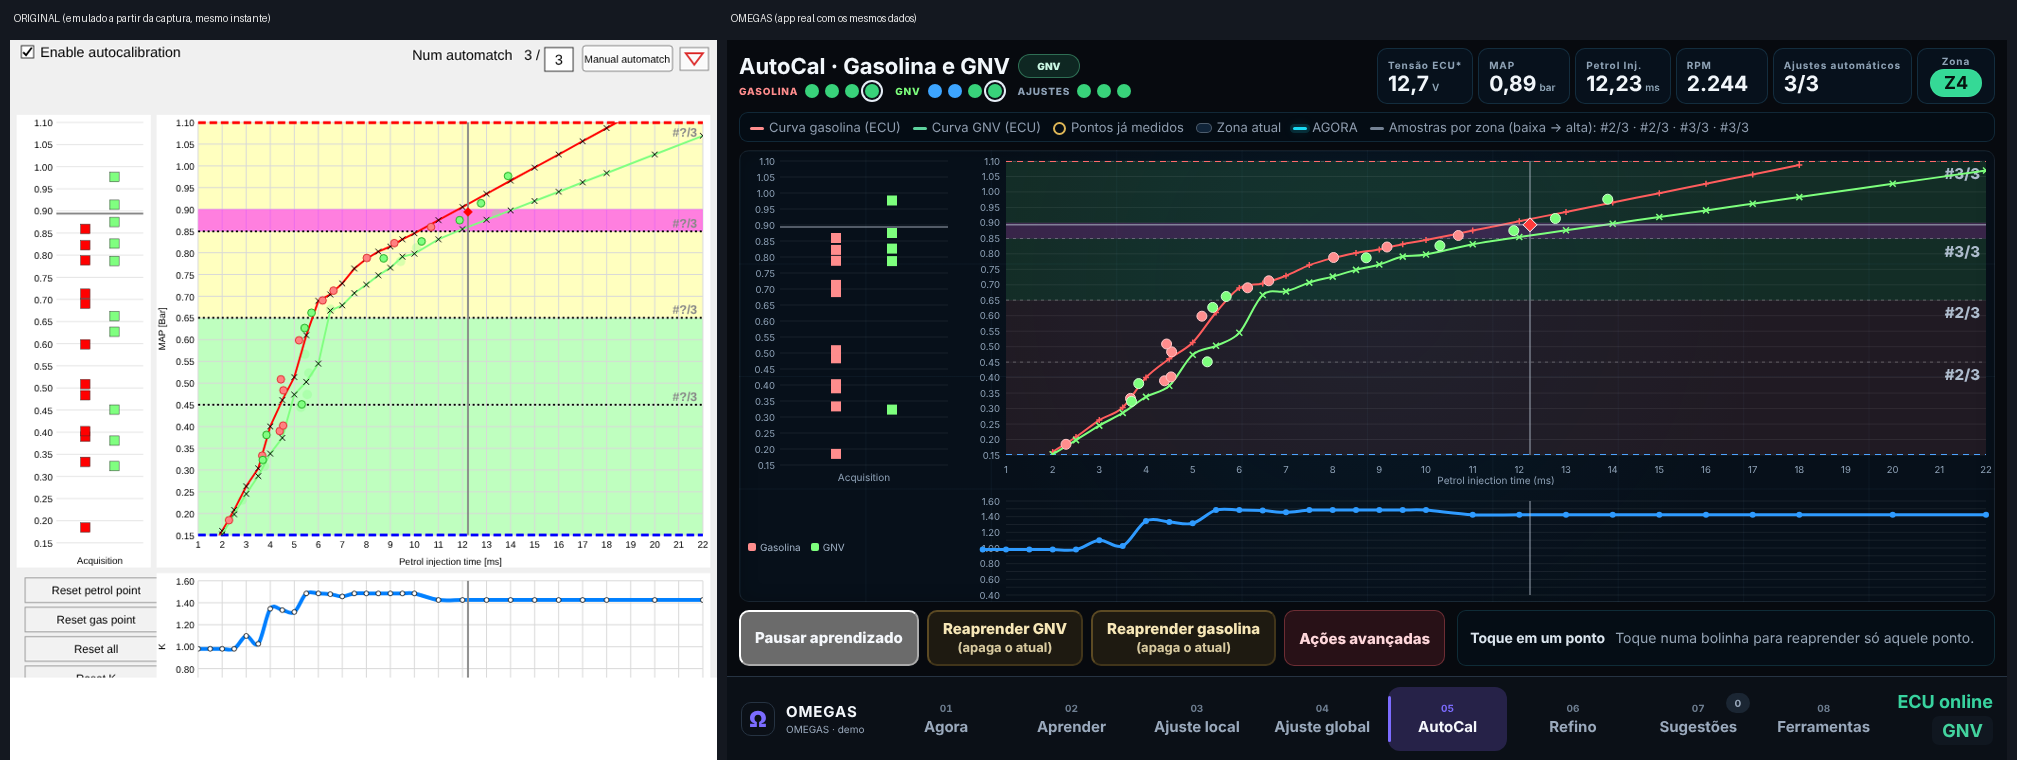
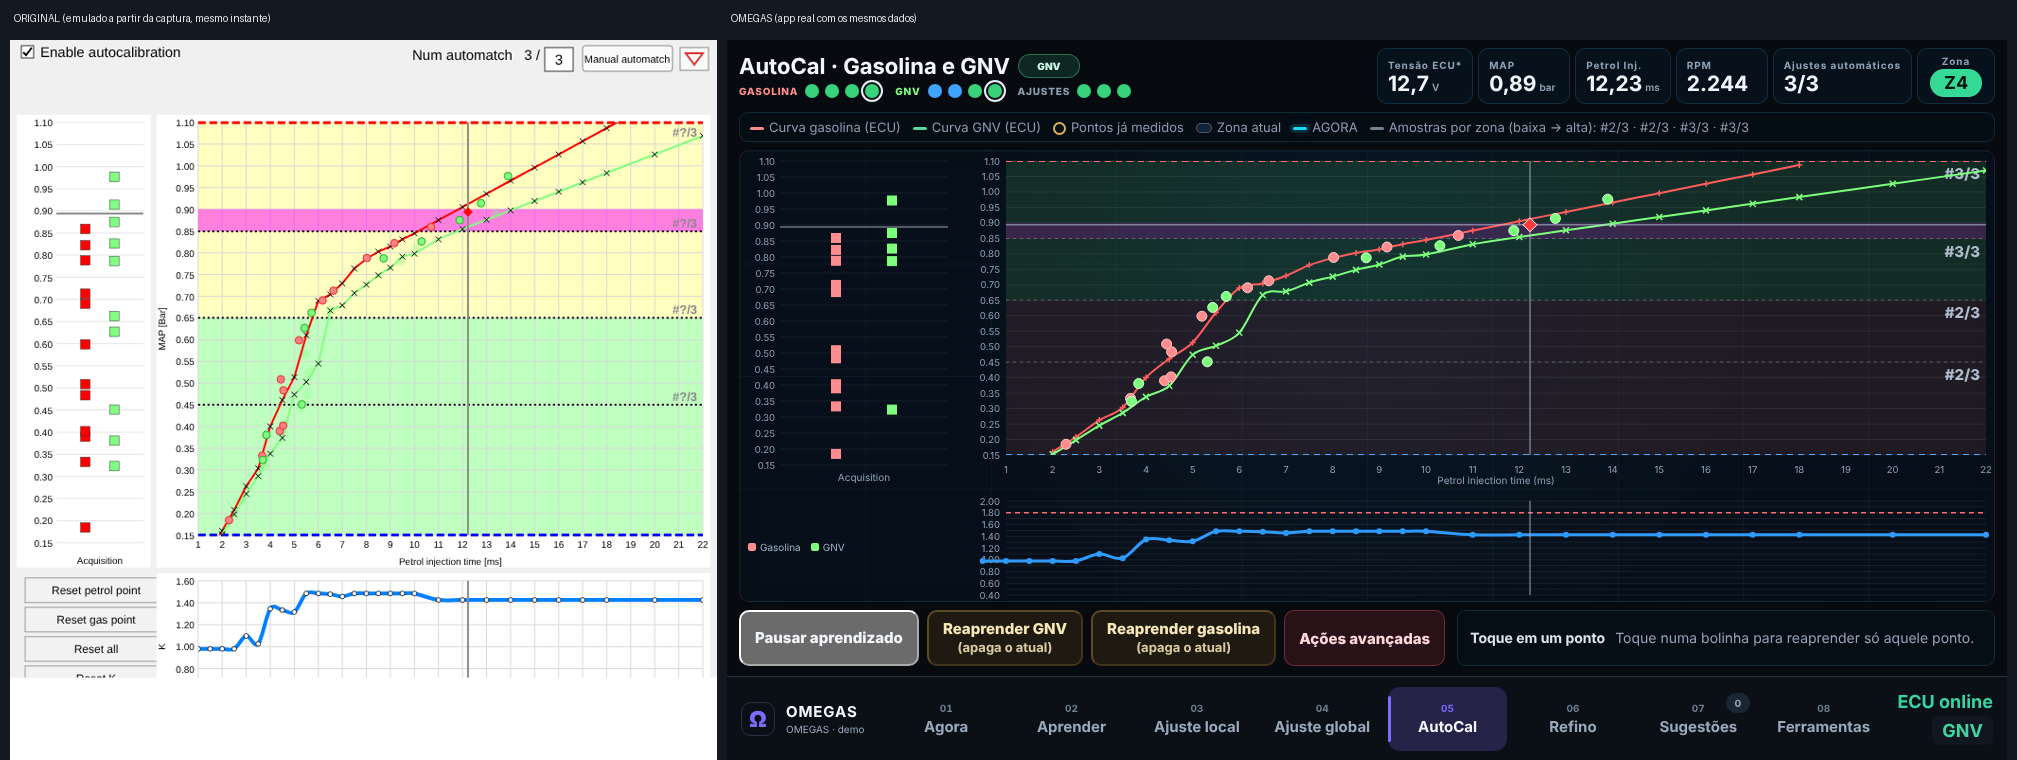
docs+ui: K de 0,4 a 2,0 com linha do teto 1,8; AGENTS.md e checkpoint de fechamento; previas atualizadas
Claude-Session: https://claude.ai/code/session_01TRDWCk2w2o4Z1q8882kAjb

Changed region(s): [[0.4685, 0.6658, 0.9995, 0.7566]]

diff --git a/app/src/main/assets/ui/screens/autocal-original.js b/app/src/main/assets/ui/screens/autocal-original.js
@@ -8,7 +8,9 @@
    * Por decisão do dono (2026-10-13) NÃO existe a série GasPointPrev (leitura anterior) nem "Manual automatch".
    */
   const AXIS_Y = { min: 0.15, max: 1.10, step: 0.05 };
-  const K_AXIS_Y = { min: 0.4, max: 1.6, step: 0.1 };
+  // O original mostra 0,4–1,6; aqui vai até 2,0 para que um nó acima do teto de gravação (1,8) apareça em vez de sumir.
+  const K_AXIS_Y = { min: 0.4, max: 2.0, step: 0.1 };
+  const K_WRITE_CEILING = 1.8;
   // Zonas por banda (tabela [5, 9, 13] do código do original): 0–4, 5–8, 9–12, 13–17.
   const ZONE_EDGES = [0, 5, 9, 13, 17];
   const BANDS = 18;
@@ -315,9 +317,10 @@
     }
     const nodes = model.kNodes.filter(node => node.y >= model.kAxisY.min && node.y <= model.kAxisY.max);
     const pts = nodes.map(node => [p.X(node.x), p.Y(node.y)]);
+    out.push('<line class="ao-k-ceiling" data-k-ceiling="1.8" x1="' + p.m.left + '" x2="' + (p.m.left + p.w) + '" y1="' + fixed(p.Y(K_WRITE_CEILING)) + '" y2="' + fixed(p.Y(K_WRITE_CEILING)) + '"/>');
     if (pts.length > 1) out.push('<path class="ao-k-line" data-series="k-line" d="' + smooth(pts) + '"/>');
     for (const [index, node] of nodes.entries()) {
-      out.push('<circle class="ao-k-node" data-node="' + node.index + '" data-value="' + node.y.toFixed(3) + '" cx="' + fixed(pts[index][0]) + '" cy="' + fixed(pts[index][1]) + '" r="3"><title>' + node.y.toFixed(3) + '</title></circle>');
+      out.push('<circle class="ao-k-node' + (node.y > K_WRITE_CEILING ? ' over' : '') + '" data-node="' + node.index + '" data-value="' + node.y.toFixed(3) + '" cx="' + fixed(pts[index][0]) + '" cy="' + fixed(pts[index][1]) + '" r="3"><title>' + node.y.toFixed(3) + '</title></circle>');
     }
     if (model.run) {
       const x = p.X(Math.min(Math.max(model.run.x, model.axisX.min), model.axisX.max));
@@ -327,5 +330,5 @@
     return out.join('');
   }
 
-  ns.AutoCalOriginal = { AXIS_Y, K_AXIS_Y, ZONE_EDGES, BANDS, zoneOfBand, build, zoneStates, automatchDots, renderMain, renderAcquisition, renderK };
+  ns.AutoCalOriginal = { AXIS_Y, K_AXIS_Y, K_WRITE_CEILING, ZONE_EDGES, BANDS, zoneOfBand, build, zoneStates, automatchDots, renderMain, renderAcquisition, renderK };
 })(typeof window !== 'undefined' ? window : globalThis);

diff --git a/app/src/main/assets/ui/styles-autocal-cockpit.css b/app/src/main/assets/ui/styles-autocal-cockpit.css
@@ -2392,3 +2392,5 @@
 .ao-dots[data-dots="petrol"] small { color: #ff8d8d; }
 .ao-dots[data-dots="gas"] small { color: #7dff7d; }
 .ao-hit { fill: transparent; stroke: none; cursor: pointer; touch-action: manipulation; }
+.ao-k-ceiling { stroke: #ff6b6b; stroke-width: 1.5; stroke-dasharray: 5 4; }
+.ao-k-node.over { fill: #ff4d4d; }

diff --git a/docs/handoff/OBSIDIAN-ENXUTO-CHECKPOINT-20261011.md b/docs/handoff/OBSIDIAN-ENXUTO-CHECKPOINT-20261011.md
@@ -160,3 +160,12 @@ Texto anterior ("zerar a curva faz a correção explodir") estava largo demais. 
 - `core/curve-to-map.js` + botão "Curva K → Mapa K": fórmula do `ExportToK` por desmontagem (PROTOCOLO-LANDI doc 26); propõe nas células, gravar segue o fluxo manual. `tools/ci/curva_para_mapa.cjs` no app real (demonstração).
 - Corrigido erro antigo: o botão dizia "alteraçãoões".
 - Não comprovado: F = 2560 (escala do eixo de linhas do Mapa K), a 13ª linha do Mapa K, e tudo que depende do aparelho (travamento ao resetar, escala da tensão).
+
+## Atualização 2026-10-13 (noite, 7) — fechamento da rodada
+
+- Curva K: teto de escrita **1,8** (Kotlin `KFactorProtocol.MAX_WRITE_*` + JS). CI remota `ci.yml` (dispatch na branch) verde em `b91e760`: contratos rápidos, testes JVM e lint.
+- AutoCal: bolinhas de estado no topo (verde completa, azul coletando, laranja falta; uma por AutoMatch); gasolina vermelha, GNV verde, nada roxo; K de 0,4 a 2,0 com linha do teto 1,8; área de toque maior (celular). Manual automatch e Finish fora da tela (dono).
+- Previas enviadas ao dono: `docs/evidence/img/previas-2026-10-13/`. Skill do método: `.claude/skills/emular-por-observacao/` (+ artefato).
+- REA: `compare_application_versions` entre `2796780` e a branch confirmou 2 módulos novos (`autocal-original.js`, `curve-to-map.js`) e os arquivos alterados; desconhecidos residuais registrados com `record_unknown`.
+- Mantido por decisão: leitura da curva K e de `0x018D/E` a cada 4 s (contratos de tempo real); K só muda em automatch.
+- Não comprovado: travamento real ao resetar (só no aparelho), escala da tensão (byte 19 ÷ 16), proposta Curva K → Mapa K no aparelho, retrato em celular na vertical (o casco do app não foi feito para isso).

diff --git a/AGENTS.md b/AGENTS.md
@@ -20,6 +20,7 @@ Este arquivo guarda só regras, um mapa e fatos já provados. Estado vivo fica n
 
 - Nenhuma escrita automática de Map K/Curve K. Escrita manual exige intenção explícita + ACK + readback.
 - `RESET_ALL` não é ação exposta; só o reset do GNV (ação AutoCal `02 24 04 02`) pode ser pedido à mão, em um toque, com backup completo antes e readback da ECU.
+- Teto de escrita da curva K = **1,8** (dono, 2026-10-13), como o piso de 100 do Mapa K: `KFactorProtocol.MAX_WRITE_FACTOR`/`MAX_WRITE_RAW` valem para escrita manual, restauração de backup e AutoMatch; a leitura segue até o limite do protocolo. Testes: `KFactorManualPlannerTest.kt`, `AutoMatchKFactorDraftTest.kt`, `tests/ui/curva-k-arrasto.test.cjs`.
 - `reset-nunca-pausa-aprendizado` (dono, 2026-10-08): após qualquer reset, `AUTO_CAL_ENABLE` é conferido e religado até readback = 1, mesmo em timeout/NAK; sem isso o reset não está concluído. Teste: `ResetNuncaPausaAprendizadoTest.kt` + `tests/test_reset_nunca_pausa_aprendizado.py`.
 - `autocal-sem-leitura-anterior` (dono, 2026-10-11): o AutoCal não mostra leitura anterior nem comparação antes × depois; tudo em tempo real. Teste: `tests/ui/autocal-sem-leitura-anterior.test.cjs` + `tests/test_autocal_sem_leitura_anterior.py`.
 - Ciência e protocolo críticos ficam em Kotlin/native. AGORA fica no mesmo contexto da referência AutoCal. LEVELS fica RAW até haver calibração física separada.
